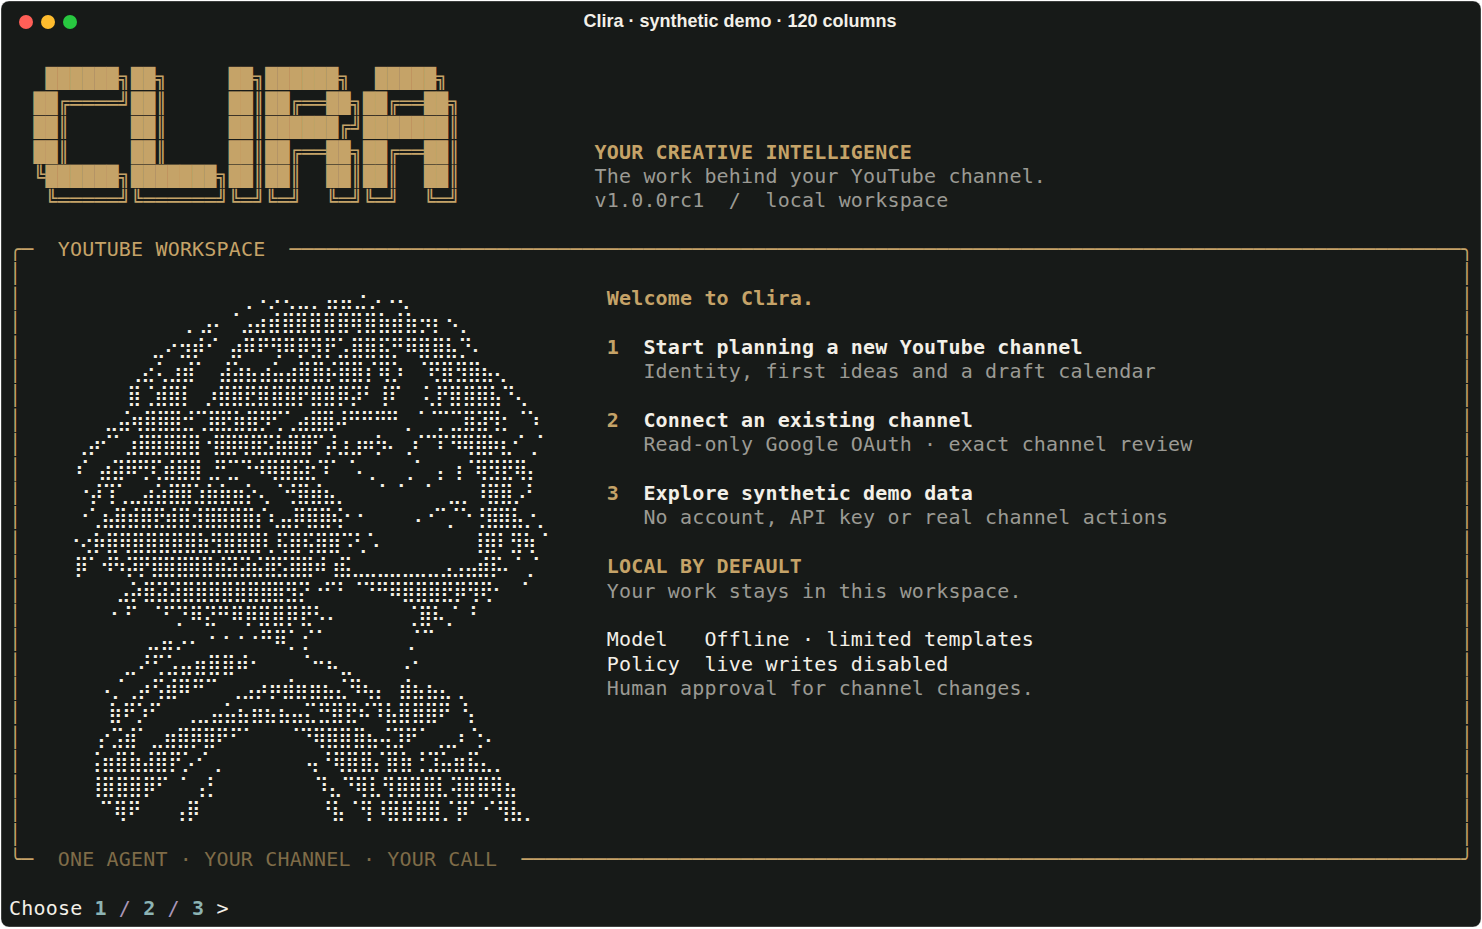
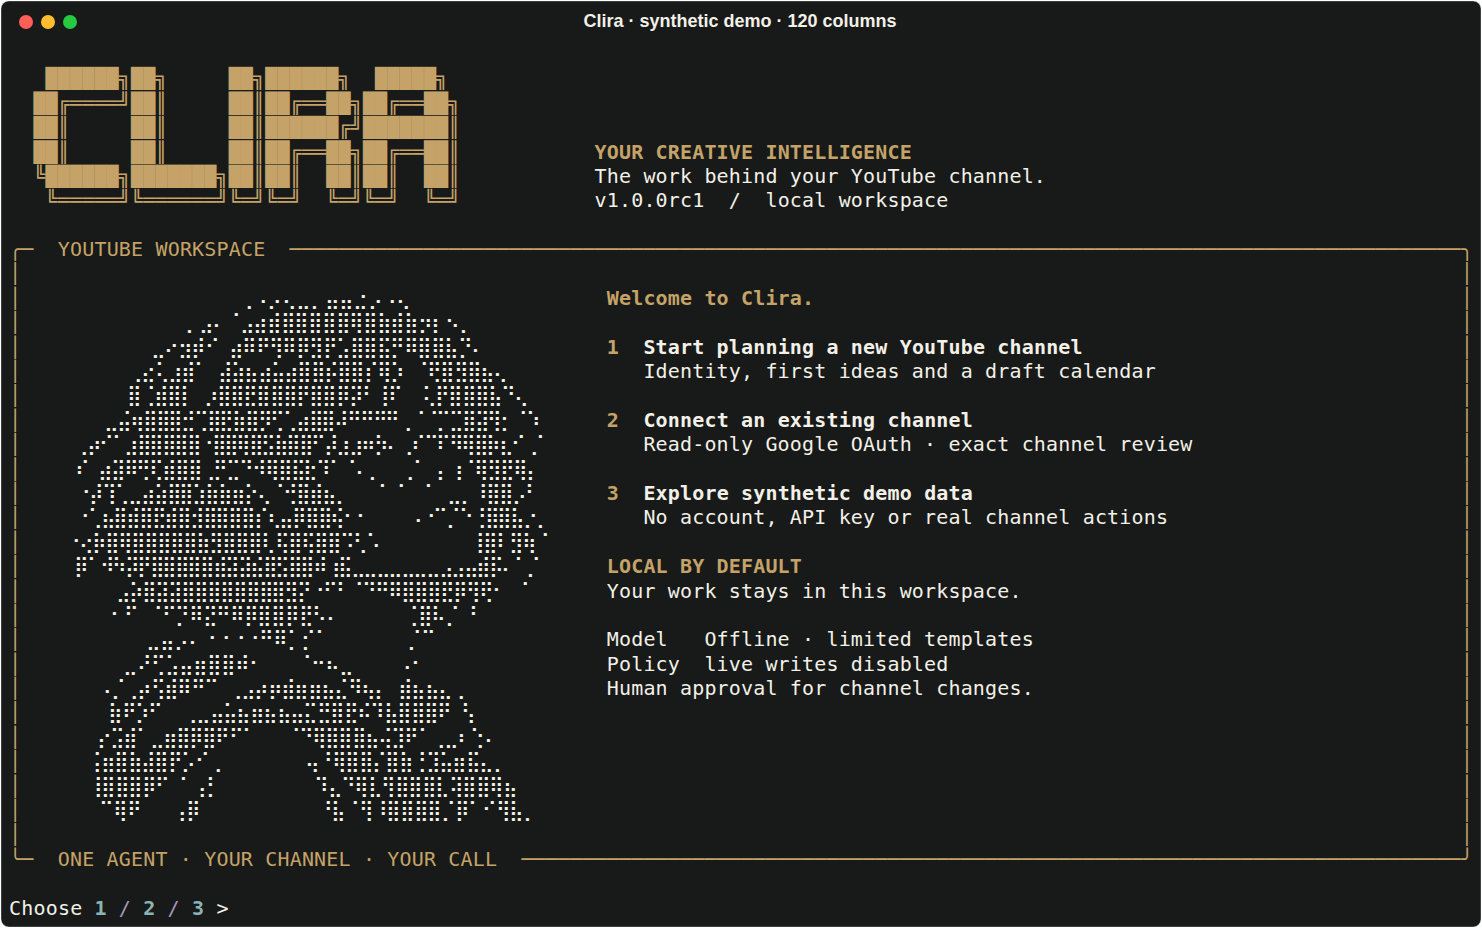
Keep terminal secondary text readable in light, dark and mono themes
Use explicit secondary colors for manual themes and inherit the terminal foreground in auto/mono, avoiding faint dimmed text on light backgrounds. Refresh actual render previews and verify secondary text contrast.

130 tests and fresh wheel/source/sdist install checks pass. No account or release actions.

diff --git a/clira/tui/presentation.py b/clira/tui/presentation.py
@@ -66,6 +66,14 @@ class Presentation:
         # ANSI colors follow the terminal's own light/dark palette in auto mode.
         return "yellow"
 
+    @property
+    def muted(self):
+        # Dimming halves contrast on light terminals. Explicit themes use readable
+        # secondary colors; auto/mono inherit the owner's normal foreground.
+        if self.console.no_color:
+            return ""
+        return {"light": "#62675c", "dark": "#abb1a5"}.get(self.terminal.theme, "")
+
     def emit(self, renderable):
         self.console.print(renderable, width=self.width)
 
@@ -116,7 +124,7 @@ class Presentation:
 
     def fact_table(self, rows):
         table = Table.grid(padding=(0, 2), expand=True)
-        table.add_column(width=7, style="dim", no_wrap=True)
+        table.add_column(width=7, style=self.muted, no_wrap=True)
         table.add_column(overflow="fold", ratio=1)
         for label, value in rows:
             table.add_row(literal(label), literal(value, "bold" if label in {"Channel", "Mode"} else ""))
@@ -134,16 +142,16 @@ class Presentation:
             entry = Text.assemble((number + "  ", "bold " + self.accent), (title, "bold"))
             entries.append(entry)
             if not compact:
-                entries.extend([literal("   " + description, "dim"), Text("")])
+                entries.extend([literal("   " + description, self.muted), Text("")])
         model, policy = self.runtime()
         entries.extend(
             [
                 self.heading("LOCAL BY DEFAULT"),
-                literal("Your work stays in this workspace.", "dim"),
+                literal("Your work stays in this workspace.", self.muted),
                 Text(""),
                 literal("Model   " + model),
                 literal("Policy  " + policy),
-                literal("Human approval for channel changes.", "dim"),
+                literal("Human approval for channel changes.", self.muted),
             ]
         )
         return Group(*entries)
@@ -162,20 +170,20 @@ class Presentation:
                 mark,
                 Group(
                     self.heading("YOUR CREATIVE INTELLIGENCE"),
-                    literal("The work behind your YouTube channel.", "dim"),
-                    literal(f"v{__version__}  /  local workspace", "dim"),
+                    literal("The work behind your YouTube channel.", self.muted),
+                    literal(f"v{__version__}  /  local workspace", self.muted),
                 ),
             )
             # A narrow terminal gets the tagline underneath instead of a crushed column.
             if self.width < 80:
                 self.emit(mark)
-                self.emit(literal(f"Your Creative Intelligence · v{__version__}", "dim"))
+                self.emit(literal(f"Your Creative Intelligence · v{__version__}", self.muted))
             else:
                 self.emit(Padding(header, (0, 2)))
             self.emit(Text(""))
         else:
-            self.emit(Text.assemble(("CLIRA", "bold " + self.accent), (f"  v{__version__}", "dim")))
-            self.emit(literal("Your Creative Intelligence", "dim"))
+            self.emit(Text.assemble(("CLIRA", "bold " + self.accent), (f"  v{__version__}", self.muted)))
+            self.emit(literal("Your Creative Intelligence", self.muted))
             self.emit(Text(""))
 
         if terminal.channel:
@@ -188,12 +196,12 @@ class Presentation:
                 literal("Plan      ideas · scripts · calendar"),
                 literal("Package   titles · thumbnails · timed captions"),
                 literal("Account   reads · uploads · community"),
-                literal("Account tools require OAuth and owner policy.", "dim"),
+                literal("Account tools require OAuth and owner policy.", self.muted),
                 Text(""),
-                literal(f"{len(TOOLS)} typed tools · /help to explore", "dim"),
+                literal(f"{len(TOOLS)} typed tools · /help to explore", self.muted),
                 Text(""),
                 self.heading("What should we work on?"),
-                literal("Try: Show my latest videos", "dim"),
+                literal("Try: Show my latest videos", self.muted),
             )
         else:
             right = self.choices()
@@ -216,7 +224,7 @@ class Presentation:
                 Panel(
                     body,
                     title=literal(" YOUTUBE WORKSPACE ", self.accent),
-                    subtitle=literal(" ONE AGENT · YOUR CHANNEL · YOUR CALL ", "dim"),
+                    subtitle=literal(" ONE AGENT · YOUR CHANNEL · YOUR CALL ", self.muted),
                     title_align="left",
                     subtitle_align="left",
                     border_style=self.accent,
@@ -237,7 +245,7 @@ class Presentation:
     def launch_step(self, number, hint):
         self.emit(Text(""))
         self.emit(self.heading(f"CHANNEL LAUNCH  /  {number} OF 5"))
-        self.emit(literal(hint, "dim"))
+        self.emit(literal(hint, self.muted))
 
     def status(self):
         terminal = self.terminal
@@ -257,10 +265,11 @@ class Presentation:
     def ready(self):
         self.emit(
             Text.assemble(
-                ("  /help", "bold " + self.accent), (" commands   /sessions saved work   /web website", "dim")
+                ("  /help", "bold " + self.accent),
+                (" commands   /sessions saved work   /web website", self.muted),
             )
         )
-        self.emit(literal("  Enter sends · Ctrl+J newline · Ctrl+R history · Ctrl+D exits", "dim"))
+        self.emit(literal("  Enter sends · Ctrl+J newline · Ctrl+R history · Ctrl+D exits", self.muted))
         self.emit(Text(""))
 
     def composer(self):
@@ -269,7 +278,7 @@ class Presentation:
             name = self.terminal.service.store.channel(self.terminal.channel)["name"]
             label += "  /  " + name
         if self.width >= 52:
-            self.emit(Rule(literal(label, "dim"), align="left", style="dim"))
+            self.emit(Rule(literal(label, self.muted), align="left", style=self.muted))
 
     def answer(self, text, receipts=None, elapsed=None):
         self.emit(Text(""))
@@ -289,8 +298,8 @@ class Presentation:
         self.emit(Text(""))
         if receipts:
             table = Table(box=None, padding=(0, 2), show_header=False, expand=False)
-            table.add_column(style="dim", overflow="fold")
-            table.add_column(style="dim", overflow="fold")
+            table.add_column(style=self.muted, overflow="fold")
+            table.add_column(style=self.muted, overflow="fold")
             for receipt in receipts[:4]:
                 ok = receipt.get("ok", False)
                 label = receipt.get("tool", receipt.get("error", {}).get("code", "tool"))
@@ -300,9 +309,9 @@ class Presentation:
             self.emit(Padding(table, (0, 2)))
         if elapsed is not None:
             total = len(receipts or [])
-            self.emit(literal(f"  {total} tool receipts · {elapsed:.1f}s · /details", "dim"))
+            self.emit(literal(f"  {total} tool receipts · {elapsed:.1f}s · /details", self.muted))
         if self.terminal.conversation:
-            self.emit(literal("  session " + self.terminal.conversation, "dim"))
+            self.emit(literal("  session " + self.terminal.conversation, self.muted))
         self.emit(Text(""))
 
     def help(self):
@@ -320,20 +329,22 @@ class Presentation:
                 if section:
                     self.emit(self.heading("\n" + section))
                 self.emit(literal(command, "bold"))
-                self.emit(literal(description, "dim"))
+                self.emit(literal(description, self.muted))
         self.emit(
-            literal("\n/help shows this guide. /clear clears display only. /approve never executes.", "dim")
+            literal(
+                "\n/help shows this guide. /clear clears display only. /approve never executes.", self.muted
+            )
         )
         self.ready()
 
     def records(self, title, records, fields):
         self.emit(self.heading(title))
         if not records:
-            self.emit(literal("Nothing saved here yet.", "dim"))
+            self.emit(literal("Nothing saved here yet.", self.muted))
             return
         for record in records:
             self.emit(literal(record.get("title") or record.get("operation") or record.get("id"), "bold"))
-            self.emit(literal(record["id"], "dim"))
+            self.emit(literal(record["id"], self.muted))
             for field in fields:
                 if record.get(field):
                     self.emit(literal(f"{field.replace('_', ' ')}  {record[field]}"))
@@ -361,7 +372,7 @@ class Presentation:
             if key in payload:
                 rows.append((label, payload[key]))
         self.emit(self.fact_table(rows))
-        self.emit(literal("Review the complete exact payload below before typing APPROVE.", "dim"))
+        self.emit(literal("Review the complete exact payload below before typing APPROVE.", self.muted))
 
     def error(self, code, message):
         content = Text.assemble((terminal_text(code) + "\n", "bold"), terminal_text(message))

diff --git a/tests/test_terminal_presentation.py b/tests/test_terminal_presentation.py
@@ -103,3 +103,21 @@ def test_workspace_names_are_literal_text_in_frame(service):
     app.view.welcome()
     output = app.console.export_text()
     assert "[red]Viewer" in output and "hidden" not in output
+
+
+@pytest.mark.parametrize("theme,background", [("light", "#f8f7f2"), ("dark", "#171a18")])
+def test_rendered_secondary_text_has_readable_contrast(service, theme, background):
+    app = terminal(service)
+    app.theme = theme
+    app.console.no_color = False
+    app.view.welcome()
+    html = app.console.export_html(inline_styles=True)
+    assert "color: " + app.view.muted in html
+
+    def luminance(color):
+        channels = [int(color[i : i + 2], 16) / 255 for i in (1, 3, 5)]
+        linear = [c / 12.92 if c <= 0.04045 else ((c + 0.055) / 1.055) ** 2.4 for c in channels]
+        return sum(c * weight for c, weight in zip(linear, [0.2126, 0.7152, 0.0722]))
+
+    high, low = sorted([luminance(background), luminance(app.view.muted)], reverse=True)
+    assert (high + 0.05) / (low + 0.05) >= 4.5

diff --git a/docs/TERMINAL_VISUALS.md b/docs/TERMINAL_VISUALS.md
@@ -26,8 +26,10 @@ previews, not screenshots of a native terminal window. Real pseudo-terminals are
 Output is bounded to 124 columns for readable line lengths, and reflows after terminal resizing.
 Auto uses the terminal's own ANSI palette and foreground; no terminal background is changed.
 `/theme light`, `/theme dark`, `/theme mono` and `NO_COLOR` remain supported. In mono, color is removed
-while useful bold/dim hierarchy remains. Rendering previews use explicit light/dark palettes to
-demonstrate both; the running terminal inherits its actual background.
+while useful bold hierarchy remains. Rendering previews use explicit light/dark palettes to
+demonstrate both; the running terminal inherits its actual background. Explicit secondary text colors
+meet 4.5:1 contrast against the documented light/dark backgrounds. Auto/mono keep the terminal
+foreground instead of applying dim styling that can become faint on light backgrounds.
 
 The input has a clear user/workspace divider, styled prompt, placeholder, slash-command completion
 and multiline continuation. Enter sends; Ctrl+J adds a newline; Ctrl+R searches history; Ctrl+D exits
@@ -42,7 +44,7 @@ All untrusted values remain literal/sanitized; Markdown hyperlinks do not emit t
 
 ## Verification
 
-Baseline: 104 passing tests. After this pass: **128 tests passed**. The additional 24 checks cover
+Baseline: 104 passing tests. After this pass: **130 tests passed**. The additional 26 checks cover
 40/52/80/99/100/120/160-column rendering, short-height behavior, no-logo, mono, real status values,
 copyable IDs, untrusted content, preserved reply bullets and colored PTY startup/help/completion/resize.
 The complete existing PTY onboarding/session/approval suite remains intact. The portrait test now
